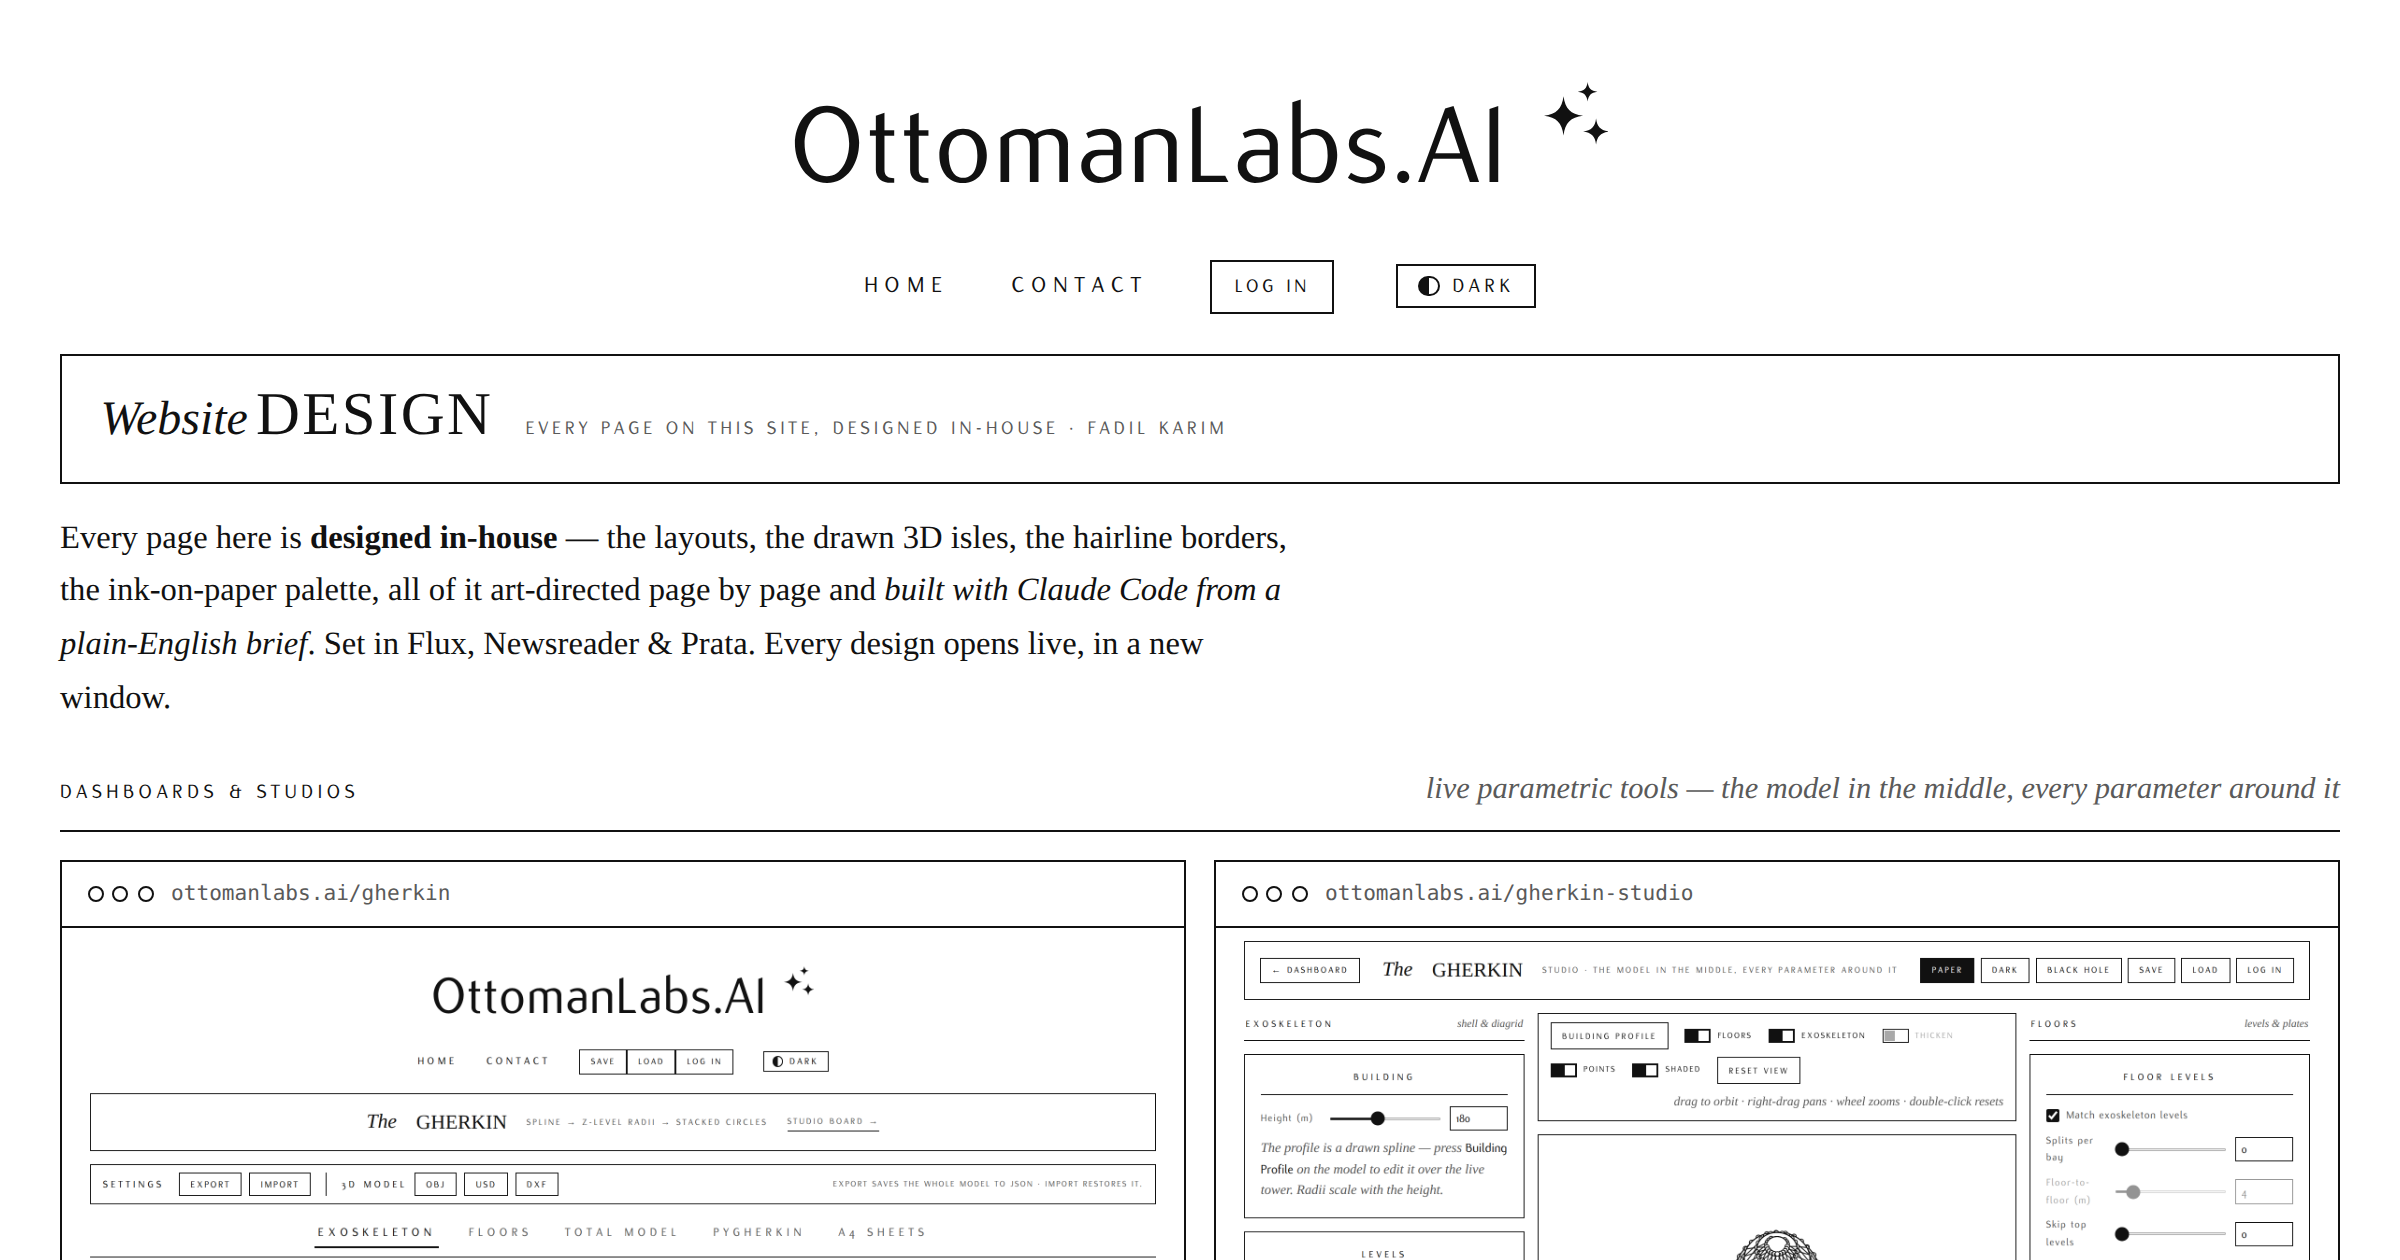
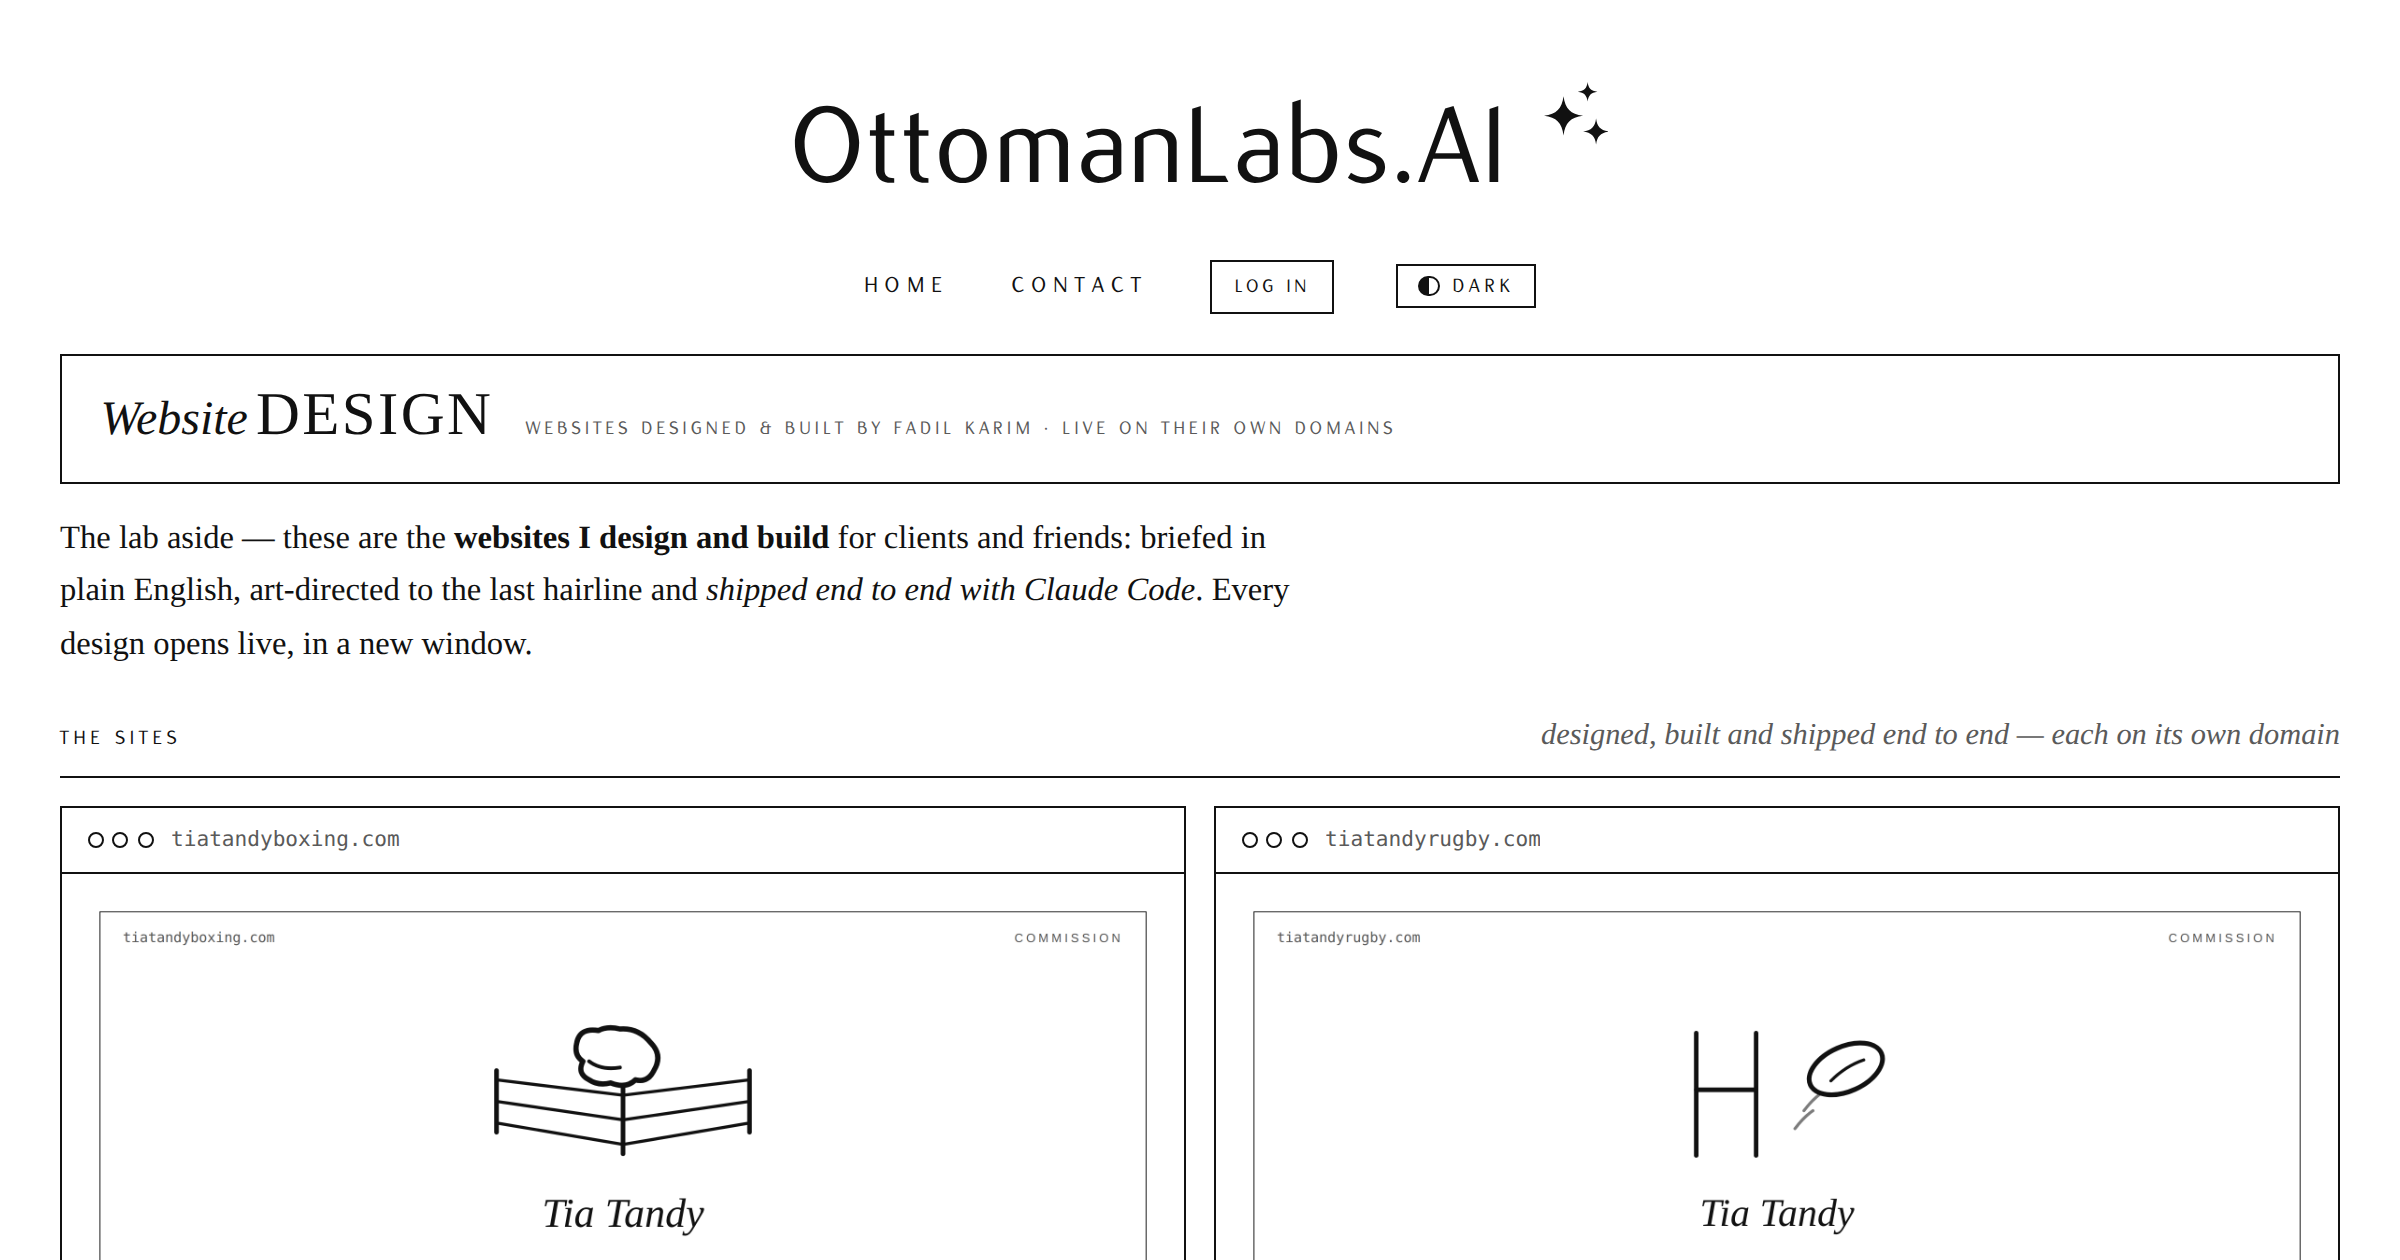
Website Design shows the sites Fadil built — not this one
The portfolio reframes to external work: Tia Tandy Boxing and Tia Tandy
Rugby on their own domains, and the Louis Horn, Obed Mbwakongo and
Churchils client sites on workers.dev. The in-site design cards are gone
— this site speaks for itself. Each card wears a drawn plate in the house
line style (ring and glove, posts and ball, monogram ovals) until live
captures replace them; all five open in a new window, and the page closes
with a pointer to the contact page. Homepage caption now counts sites,
not pages.

Claude-Session: https://claude.ai/code/session_018QcUFKCdPGgzpAiDkBKoX2

diff --git a/website-design.html b/website-design.html
@@ -7,12 +7,12 @@
 <link rel="icon" href="assets/favicon.svg" type="image/svg+xml">
 <link rel="apple-touch-icon" href="assets/favicon-180.png">
 <title>Website Design — OttomanLabs.AI</title>
-<meta name="description" content="The pages of OttomanLabs.AI, designed in-house by Fadil Karim — dashboards, studios and reading rooms, art-directed to the last hairline and built with Claude Code.">
+<meta name="description" content="Websites designed and built by Fadil Karim — client and personal sites, briefed in plain English, art-directed and shipped end to end with Claude Code.">
 <link rel="canonical" href="https://ottomanlabs.ai/website-design.html">
 <meta property="og:type" content="website">
 <meta property="og:site_name" content="OttomanLabs.AI">
 <meta property="og:title" content="Website Design — OttomanLabs.AI">
-<meta property="og:description" content="Dashboards, studios and reading rooms — every page designed in-house, art-directed to the last hairline.">
+<meta property="og:description" content="Client and personal websites, designed and built end to end — live on their own domains.">
 <meta property="og:url" content="https://ottomanlabs.ai/website-design.html">
 <meta property="og:image" content="https://ottomanlabs.ai/assets/og/og-website-design.png">
 <meta property="og:image:width" content="2400">
@@ -93,103 +93,49 @@
 
   <div class="hero">
     <span><span class="ital">Website</span> <span class="display">DESIGN</span></span>
-    <span class="sub">every page on this site, designed in-house &middot; Fadil Karim</span>
+    <span class="sub">websites designed &amp; built by Fadil Karim &middot; live on their own domains</span>
   </div>
 
-  <p class="lede">Every page here is <b>designed in-house</b> — the layouts, the drawn 3D isles, the
-    hairline borders, the ink-on-paper palette, all of it art-directed page by page and
-    <i>built with Claude Code from a plain-English brief</i>. Set in Flux, Newsreader &amp; Prata.
-    Every design opens live, in a new window.</p>
+  <p class="lede">The lab aside &mdash; these are the <b>websites I design and build</b> for clients
+    and friends: briefed in plain English, art-directed to the last hairline and
+    <i>shipped end to end with Claude Code</i>. Every design opens live, in a new window.</p>
 
-  <div class="sec-rule">Dashboards &amp; Studios<span class="note">live parametric tools — the model in the middle, every parameter around it</span></div>
-  <div class="designs">
-    <a class="design" target="_blank" rel="noopener" href="gherkin.html">
-      <span class="chrome"><span class="dots" aria-hidden="true"><i></i><i></i><i></i></span><span class="url">ottomanlabs.ai/gherkin</span></span>
-      <img class="shot" src="assets/og/og-gherkin.png" alt="The Gherkin dashboard design" loading="lazy">
-      <span class="meta"><span class="name"><span class="ital">The</span> <span class="display">GHERKIN</span></span>
-      <span class="caps">parametric diagrid dashboard &middot; spline profile &middot; Revit-ready exports</span></span>
-    </a>
-    <a class="design" target="_blank" rel="noopener" href="gherkin-studio.html">
-      <span class="chrome"><span class="dots" aria-hidden="true"><i></i><i></i><i></i></span><span class="url">ottomanlabs.ai/gherkin-studio</span></span>
-      <img class="shot" src="assets/og/og-gherkin-studio.png" alt="The Gherkin Studio design" loading="lazy">
-      <span class="meta"><span class="name"><span class="ital">The Gherkin</span> <span class="display">STUDIO</span></span>
-      <span class="caps">one board &middot; the tower in the middle &middot; Paper / Dark / Black Hole schemes</span></span>
-    </a>
-    <a class="design" target="_blank" rel="noopener" href="dymak.html">
-      <span class="chrome"><span class="dots" aria-hidden="true"><i></i><i></i><i></i></span><span class="url">ottomanlabs.ai/dymak</span></span>
-      <img class="shot" src="assets/og/og-dymak.png" alt="Dymak HQ design" loading="lazy">
-      <span class="meta"><span class="name"><span class="ital">Dymak</span> <span class="display">HQ</span></span>
-      <span class="caps">polar roof-framing plan &middot; orbit 3D &middot; pyDymak hand-off</span></span>
-    </a>
-    <a class="design" target="_blank" rel="noopener" href="topoforge.html">
-      <span class="chrome"><span class="dots" aria-hidden="true"><i></i><i></i><i></i></span><span class="url">ottomanlabs.ai/topoforge</span></span>
-      <img class="shot" src="assets/og/og-topoforge.png" alt="TopoForge design" loading="lazy">
-      <span class="meta"><span class="name"><span class="ital">Topo</span> <span class="display">FORGE</span></span>
-      <span class="caps">sculptable terrain &middot; spline boundary &middot; OBJ / USD / DXF / CSV out</span></span>
-    </a>
-    <a class="design" target="_blank" rel="noopener" href="playground.html">
-      <span class="chrome"><span class="dots" aria-hidden="true"><i></i><i></i><i></i></span><span class="url">ottomanlabs.ai/playground</span></span>
-      <img class="shot" src="assets/og/og-playground.png" alt="Computational AI Playground design" loading="lazy">
-      <span class="meta"><span class="name"><span class="ital">Computational AI</span> <span class="display">PLAYGROUND</span></span>
-      <span class="caps">viewport widgets &middot; import geometry &middot; input tools &middot; tutorials</span></span>
-    </a>
-    <a class="design" target="_blank" rel="noopener" href="cvbuilder.html">
-      <span class="chrome"><span class="dots" aria-hidden="true"><i></i><i></i><i></i></span><span class="url">ottomanlabs.ai/cvbuilder</span></span>
-      <img class="shot" src="assets/og/og-cvbuilder.png" alt="CV Builder design" loading="lazy">
-      <span class="meta"><span class="name"><span class="ital">CV</span> <span class="display">BUILDER</span></span>
-      <span class="caps">live A4 preview &middot; spacing &amp; information editor &middot; print-ready</span></span>
-    </a>
-  </div>
-
-  <div class="sec-rule">Ledgers &amp; Rooms<span class="note">reading, records and the occasional field note</span></div>
-  <div class="designs">
-    <a class="design" target="_blank" rel="noopener" href="index.html">
-      <span class="chrome"><span class="dots" aria-hidden="true"><i></i><i></i><i></i></span><span class="url">ottomanlabs.ai</span></span>
-      <img class="shot" src="assets/og/og-home.png" alt="OttomanLabs.AI homepage design" loading="lazy">
-      <span class="meta"><span class="name"><span class="ital">The</span> <span class="display">HOME</span></span>
-      <span class="caps">editorial mosaic &middot; drawn 3D project isles &middot; the front door</span></span>
-    </a>
-    <a class="design" target="_blank" rel="noopener" href="pybuffet.html">
-      <span class="chrome"><span class="dots" aria-hidden="true"><i></i><i></i><i></i></span><span class="url">ottomanlabs.ai/pybuffet</span></span>
-      <img class="shot" src="assets/og/og-pybuffet.png" alt="pyBuffet EDGAR Ledger design" loading="lazy">
-      <span class="meta"><span class="name"><span class="ital">pyBuffet</span> <span class="display">EDGAR LEDGER</span></span>
-      <span class="caps">print-ledger aesthetic &middot; SEC financials &middot; Buffett chapter notes</span></span>
-    </a>
-    <a class="design" target="_blank" rel="noopener" href="reading.html">
-      <span class="chrome"><span class="dots" aria-hidden="true"><i></i><i></i><i></i></span><span class="url">ottomanlabs.ai/reading</span></span>
-      <img class="shot" src="assets/og/og-reading.png" alt="Reading Room design" loading="lazy">
-      <span class="meta"><span class="name"><span class="ital">The Reading</span> <span class="display">ROOM</span></span>
-      <span class="caps">the library wall &middot; 48 volumes &middot; 2006 — present</span></span>
-    </a>
-    <a class="design" target="_blank" rel="noopener" href="stocks.html">
-      <span class="chrome"><span class="dots" aria-hidden="true"><i></i><i></i><i></i></span><span class="url">ottomanlabs.ai/stocks</span></span>
-      <img class="shot" src="assets/og/og-stocks.png" alt="Stock Picks design" loading="lazy">
-      <span class="meta"><span class="name"><span class="ital">Fadil&rsquo;s</span> <span class="display">STOCK PICKS</span></span>
-      <span class="caps">conviction ledger &middot; hand-drawn charts &middot; the editor&rsquo;s picks</span></span>
-    </a>
-    <a class="design" target="_blank" rel="noopener" href="strategy.html">
-      <span class="chrome"><span class="dots" aria-hidden="true"><i></i><i></i><i></i></span><span class="url">ottomanlabs.ai/strategy</span></span>
-      <img class="shot" src="assets/og/og-strategy.png" alt="AI Strategy design" loading="lazy">
-      <span class="meta"><span class="name"><span class="ital">AI Strategy of</span> <span class="display">BIM &amp; CONSTRUCTION</span></span>
-      <span class="caps">the playbook &middot; RIBA 2–6 &middot; one ID-tracked model</span></span>
-    </a>
-    <a class="design" target="_blank" rel="noopener" href="under-the-hood.html">
-      <span class="chrome"><span class="dots" aria-hidden="true"><i></i><i></i><i></i></span><span class="url">ottomanlabs.ai/under-the-hood</span></span>
-      <img class="shot" src="assets/og/og-under-the-hood.png" alt="Under the Hood design" loading="lazy">
-      <span class="meta"><span class="name"><span class="ital">Under the</span> <span class="display">HOOD</span></span>
-      <span class="caps">the machinery &middot; vanilla JS vs node graphs &middot; live self-timing demo</span></span>
-    </a>
-  </div>
-
-  <div class="sec-rule">Commissions<span class="note">designed &amp; built for clients — live on their own domains</span></div>
+  <div class="sec-rule">The Sites<span class="note">designed, built and shipped end to end &mdash; each on its own domain</span></div>
   <div class="designs">
     <a class="design" target="_blank" rel="noopener" href="https://tiatandyboxing.com">
       <span class="chrome"><span class="dots" aria-hidden="true"><i></i><i></i><i></i></span><span class="url">tiatandyboxing.com</span></span>
       <img class="shot" src="assets/og/site-tiatandyboxing.png" alt="Tia Tandy Boxing website" loading="lazy">
       <span class="meta"><span class="name"><span class="ital">Tia Tandy</span> <span class="display">BOXING</span></span>
-      <span class="caps">client commission &middot; boxing coaching &middot; live at tiatandyboxing.com</span></span>
+      <span class="caps">commission &middot; boxing coaching &middot; live at tiatandyboxing.com</span></span>
+    </a>
+    <a class="design" target="_blank" rel="noopener" href="https://tiatandyrugby.com">
+      <span class="chrome"><span class="dots" aria-hidden="true"><i></i><i></i><i></i></span><span class="url">tiatandyrugby.com</span></span>
+      <img class="shot" src="assets/og/site-tiatandyrugby.png" alt="Tia Tandy Rugby website" loading="lazy">
+      <span class="meta"><span class="name"><span class="ital">Tia Tandy</span> <span class="display">RUGBY</span></span>
+      <span class="caps">commission &middot; rugby coaching &middot; live at tiatandyrugby.com</span></span>
+    </a>
+    <a class="design" target="_blank" rel="noopener" href="https://louis-horn-web.cloudflare-passport599.workers.dev/">
+      <span class="chrome"><span class="dots" aria-hidden="true"><i></i><i></i><i></i></span><span class="url">louis-horn-web.cloudflare-passport599.workers.dev</span></span>
+      <img class="shot" src="assets/og/site-louis-horn.png" alt="Louis Horn website" loading="lazy">
+      <span class="meta"><span class="name"><span class="ital">Louis</span> <span class="display">HORN</span></span>
+      <span class="caps">client site &middot; designed &amp; built end to end</span></span>
+    </a>
+    <a class="design" target="_blank" rel="noopener" href="https://obed-mbwakongo-web.cloudflare-passport599.workers.dev/">
+      <span class="chrome"><span class="dots" aria-hidden="true"><i></i><i></i><i></i></span><span class="url">obed-mbwakongo-web.cloudflare-passport599.workers.dev</span></span>
+      <img class="shot" src="assets/og/site-obed-mbwakongo.png" alt="Obed Mbwakongo website" loading="lazy">
+      <span class="meta"><span class="name"><span class="ital">Obed</span> <span class="display">MBWAKONGO</span></span>
+      <span class="caps">client site &middot; designed &amp; built end to end</span></span>
+    </a>
+    <a class="design" target="_blank" rel="noopener" href="https://web-churchils.cloudflare-passport599.workers.dev/">
+      <span class="chrome"><span class="dots" aria-hidden="true"><i></i><i></i><i></i></span><span class="url">web-churchils.cloudflare-passport599.workers.dev</span></span>
+      <img class="shot" src="assets/og/site-churchils.png" alt="Churchils website" loading="lazy">
+      <span class="meta"><span class="name"><span class="display">CHURCHILS</span></span>
+      <span class="caps">client site &middot; designed &amp; built end to end</span></span>
     </a>
   </div>
+
+  <p class="lede" style="margin-top:var(--gap)">Want one? The same conversation that built these &mdash;
+    and everything on this site &mdash; starts on the <a href="contact.html">contact page</a>.</p>
 
 </main>
 

diff --git a/index.html b/index.html
@@ -417,7 +417,7 @@
     <a class="box a-wdesign" href="website-design.html">
       <span class="ital">Website</span>
       <span class="display" style="font-size:1.45rem">DESIGN</span>
-      <span class="caps caps-tight muted" style="font-size:.6rem">every page here &amp; beyond, designed in-house &middot; 13 designs</span>
+      <span class="caps caps-tight muted" style="font-size:.6rem">websites designed &amp; built for clients &middot; 5 sites and counting</span>
     </a>
 
   </div>
